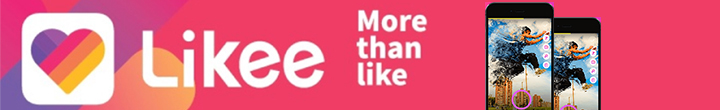
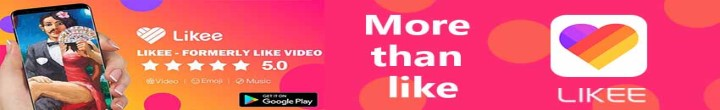
bulk changes

diff --git a/src/app/modules/post/components/header/header.component.html b/src/app/modules/post/components/header/header.component.html
@@ -55,22 +55,26 @@
           [routerLink]="['/category', catList.id]">{{catList.name}}</a></li>
     </ul>
 
-    <ul class="world-cup-menu">
 
-      <li class="world-cup-menu-item"> <a class="world-cup-link" [routerLinkActiveOptions]="{ exact: true }"
+
+    <!-- <ul class="world-cup-menu"> -->
+
+    <!-- <li class="world-cup-menu-item"> <a class="world-cup-link" [routerLinkActiveOptions]="{ exact: true }"
           routerLinkActive="world-cup-link-active" [routerLink]="['/world-cup']">{{worldCupFixtures}}
-        </a></li>
-      <!-- <li class="world-cup-menu-item"> <a class="world-cup-link" [routerLinkActiveOptions]="{ exact: true }"
+        </a></li> -->
+
+    <!-- <li class="world-cup-menu-item"> <a class="world-cup-link" [routerLinkActiveOptions]="{ exact: true }"
           routerLinkActive="world-cup-link-active" [routerLink]="['/category', wcCatId]">{{worldCupNews}}
         </a></li> -->
-      <li class="world-cup-menu-item">
-        <!--   <a  class="world-cup-link"
+
+    <!-- <li class="world-cup-menu-item"> -->
+    <!--   <a  class="world-cup-link"
           [routerLinkActiveOptions]="{ exact: true }" routerLinkActive="world-cup-link-active"
           [routerLink]="['/point-table']">  {{worldCupPointTable}} </a> -->
 
-        <span class="world-cup-link"> {{worldCupPointTable}}</span></li>
+    <!-- <span class="world-cup-link"> {{worldCupPointTable}}</span></li> -->
 
-    </ul>
+    <!-- </ul> -->
 
   </nav>
   <!-- <div [hidden]="!langBtn">
@@ -86,7 +90,7 @@
 
   </div>
 
-  <ng-container *ngIf="liveFixtures && liveFixtures.length > 0">
+  <!--  
     <section class="lf-wrap">
       <aside class="lf-single" *ngFor="let lFix of liveFixtures">
         <a class="lf-link" [routerLink]="['/world-cup/full-scorecard', lFix.id]">
@@ -95,11 +99,9 @@
           <div *ngIf="lFix.batting.length>0 && lFix.batting[0].team_id==lFix.localteam_id">
             <div class="lf-sc-wrap" *ngIf="lFix.runs && lFix.runs.length > 0">
               <div class="lf-sc-single"><span>{{lFix.localteam.code}}</span>
-                <!-- <span>{{lFix?.runs[0]?.score || 0}}/{{lFix?.runs[0]?.wickets || 0}} ({{lFix?.runs[0]?.overs || 0}})</span> </div> -->
                 <span>{{getTeamRun(lFix.localteam_id, lFix.id)}}</span>
               </div>
               <div class="lf-sc-single"><span>{{lFix.visitorteam.code}}</span>
-                <!-- <span>{{lFix?.runs[1]?.score || 0}}/{{lFix?.runs[1]?.wickets || 0}} ({{lFix?.runs[1]?.overs || 0}})</span> </div> -->
                 <span>{{getTeamRun(lFix.visitorteam_id, lFix.id)}}</span>
               </div>
             </div>
@@ -108,11 +110,9 @@
 
             <div class="lf-sc-wrap" *ngIf="lFix.runs && lFix.runs.length > 0">
               <div class="lf-sc-single"><span>{{lFix.visitorteam.code}}</span>
-                <!-- <span>{{lFix?.runs[1]?.score || 0}}/{{lFix?.runs[1]?.wickets || 0}} ({{lFix?.runs[1]?.overs || 0}})</span> </div> -->
                 <span>{{getTeamRun(lFix.visitorteam_id, lFix.id)}}</span>
               </div>
               <div class="lf-sc-single"><span>{{lFix.localteam.code}}</span>
-                <!-- <span>{{lFix?.runs[0]?.score || 0}}/{{lFix?.runs[0]?.wickets || 0}} ({{lFix?.runs[0]?.overs || 0}})</span> </div> -->
                 <span>{{getTeamRun(lFix.localteam_id, lFix.id)}}</span>
               </div>
             </div>
@@ -120,5 +120,5 @@
         </a>
       </aside>
     </section>
-  </ng-container>
+  </ng-container> -->
 </header>

diff --git a/src/app/modules/post/components/home/home.component.html b/src/app/modules/post/components/home/home.component.html
@@ -3,12 +3,10 @@
     <img style="width:100%" src="assets/images/banner/dailyhunt.jpg" alt="" srcset="">
   </a>
 </div> -->
-<div class="p-lr" style="margin-top:10px;">
-  <a href="http://www.development.bdigimedia.com/apk/filehunt/jmm01-12.1.13-APK.apk" download>
-    <img *ngIf="lang=='hin'" style="width:100%; border:solid 1px #e3e3e3 " src="assets/images/banner/dailyhunt-hin2.jpg"
-      alt="" srcset="">
-    <img *ngIf="lang=='eng'" style="width:100%; border:solid 1px #e3e3e3 " src="assets/images/banner/dailyhunt-eng2.jpg"
-      alt="" srcset="">
+<div class="p-lr">
+  <a href="https://app.appsflyer.com/video.like?pid=morrisdigital_int&af_sub1={publisher_id}_{source}&af_click_lookback=7d&clickid={click_id}"
+    target="_blank">
+    <img style="width:100%;" src="assets/images/banner/like4.jpg" alt="" srcset="">
   </a>
 </div>
 
@@ -20,12 +18,17 @@
   <app-news-template [categoryID]="catIdList[2]" [count]='5'></app-news-template>
   <app-ad-banner [slotId]="'2163562243'"></app-ad-banner>
   <app-news-template [categoryID]="catIdList[3]" [count]='5'></app-news-template>
-  <div class="p-lr">
-    <a href="https://app.appsflyer.com/video.like?pid=morrisdigital_int&af_sub1={publisher_id}_{source}&af_click_lookback=7d&clickid={click_id}"
-      target="_blank">
-      <img style="width:100%;" src="assets/images/banner/like4.jpg" alt="" srcset="">
+
+
+  <div class="p-lr" style="margin-top:10px;">
+    <a href="http://www.development.bdigimedia.com/apk/filehunt/jmm01-12.1.13-APK.apk" download>
+      <img *ngIf="lang=='hin'" style="width:100%; border:solid 1px #e3e3e3 "
+        src="assets/images/banner/dailyhunt-hin2.jpg" alt="" srcset="">
+      <img *ngIf="lang=='eng'" style="width:100%; border:solid 1px #e3e3e3 "
+        src="assets/images/banner/dailyhunt-eng2.jpg" alt="" srcset="">
     </a>
   </div>
+
   <app-ad-banner [slotId]="'2185782979'"></app-ad-banner>
 
 </div>

diff --git a/src/app/modules/post/components/single-post/single-post.component.html b/src/app/modules/post/components/single-post/single-post.component.html
@@ -15,14 +15,14 @@
       <app-share-to-app [post]="post"></app-share-to-app>
 
     </div>
-    <div class="p-lr" style="margin-top:10px;">
-      <a href="http://www.development.bdigimedia.com/apk/filehunt/jmm01-12.1.13-APK.apk" download>
-        <img *ngIf="lang=='hin'" style="width:100%; border:solid 1px #e3e3e3 "
-          src="assets/images/banner/dailyhunt-hin1.jpg" alt="" srcset="">
-        <img *ngIf="lang=='eng'" style="width:100%; border:solid 1px #e3e3e3 "
-          src="assets/images/banner/dailyhunt-eng1.jpg" alt="" srcset="">
+    <div class="p-lr">
+      <a href="https://app.appsflyer.com/video.like?pid=morrisdigital_int&af_sub1={publisher_id}_{source}&af_click_lookback=7d&clickid={click_id}"
+        target="_blank">
+        <img style="width:100%;" src="assets/images/banner/like4.jpg" alt="" srcset="">
       </a>
     </div>
+
+
     <!-- <div class="p-lr" style="margin-top:10px ">
       <a href="http://www.development.bdigimedia.com/apk/filehunt/jmm01-12.1.13-APK.apk" download>
         <img style="width:100%" src="assets/images/banner/dailyhunt.jpg" alt="" srcset="">
@@ -52,7 +52,15 @@
   </div>
 
   <app-ad-banner [slotId]="'2303163047'"></app-ad-banner>
-
+  
+  <div class="p-lr" style="margin-top:10px;">
+    <a href="http://www.development.bdigimedia.com/apk/filehunt/jmm01-12.1.13-APK.apk" download>
+      <img *ngIf="lang=='hin'" style="width:100%; border:solid 1px #e3e3e3 "
+        src="assets/images/banner/dailyhunt-hin1.jpg" alt="" srcset="">
+      <img *ngIf="lang=='eng'" style="width:100%; border:solid 1px #e3e3e3 "
+        src="assets/images/banner/dailyhunt-eng1.jpg" alt="" srcset="">
+    </a>
+  </div>
 
   <div>
     <h3 class="related-post">Related-Posts</h3>

diff --git a/src/app/modules/post/components/archive-post/archive-post.component.html b/src/app/modules/post/components/archive-post/archive-post.component.html
@@ -4,14 +4,20 @@
     <img class="w-100" src="assets/images/banner/like2.jpg" alt="" srcset="">
   </a>
 </div> -->
-<div class="p-lr" style="margin-top:10px;">
+
+<!-- <div class="p-lr" style="margin-top:10px;">
   <a href="http://www.development.bdigimedia.com/apk/filehunt/jmm01-12.1.13-APK.apk" download>
     <img *ngIf="lang=='hin'" style="width:100%; border:solid 1px #e3e3e3 " src="assets/images/banner/dailyhunt-hin1.jpg"
       alt="" srcset="">
     <img *ngIf="lang=='eng'" style="width:100%; border:solid 1px #e3e3e3 " src="assets/images/banner/dailyhunt-eng1.jpg"
       alt="" srcset="">
   </a>
+</div> -->
+<div class="p-lr">
+  <a href="https://app.appsflyer.com/video.like?pid=morrisdigital_int&af_sub1={publisher_id}_{source}&af_click_lookback=7d&clickid={click_id}"
+    target="_blank">
+    <img style="width:100%;" src="assets/images/banner/like5.jpg" alt="" srcset="">
+  </a>
 </div>
-
 
 <app-news-template class="scroll" [categoryID]="categoryId"></app-news-template>

diff --git a/src/app/modules/post/components/header/header.component.ts b/src/app/modules/post/components/header/header.component.ts
@@ -53,12 +53,12 @@ export class HeaderComponent implements OnInit {
       }
     );
 
-    this.getLiveFixes();
+    // this.getLiveFixes();
 
-    this.timer = setInterval(() => {
-      this.getLiveFixes();
+    // this.timer = setInterval(() => {
+    //   this.getLiveFixes();
 
-    }, 20000);
+    // }, 20000);
 
     router.events.subscribe((event) => {
       if (event instanceof NavigationEnd) {
